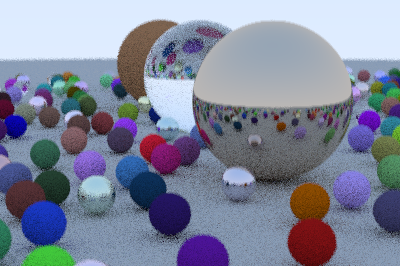
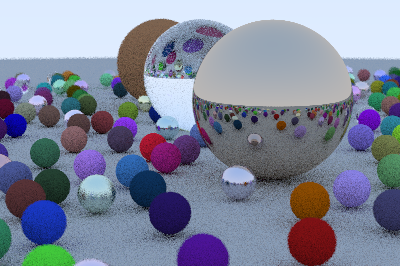
Fixed sampler bug and added images/hyperfine.

diff --git a/src/sampler.rs b/src/sampler.rs
@@ -32,7 +32,7 @@ impl Iterator for SquareSampler {
         } else {
             // this creates a subpixel bias to the bottom left
             let i = (self.sample % self.n) as f64 / self.n as f64;
-            let j = (self.sample / self.n) as f64;
+            let j = (self.sample / self.n2) as f64;
 
             self.sample += 1;
 
